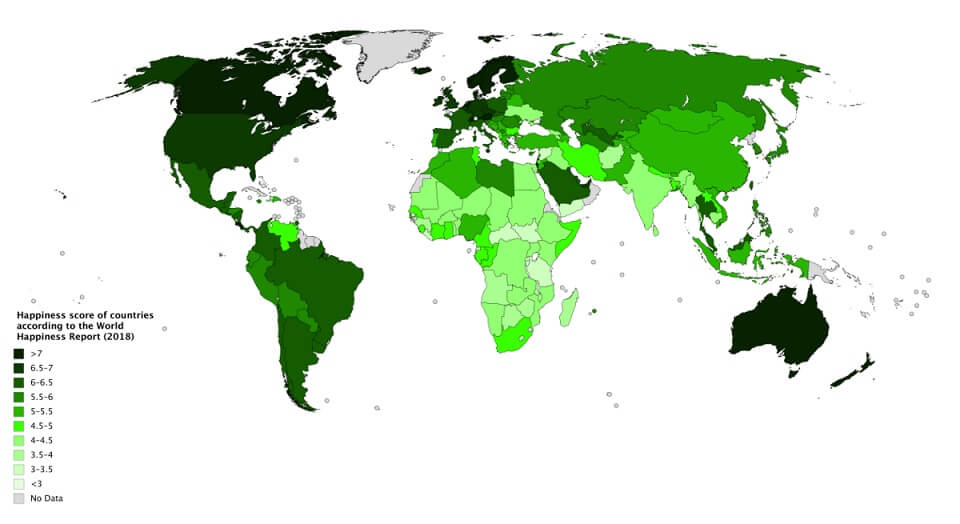
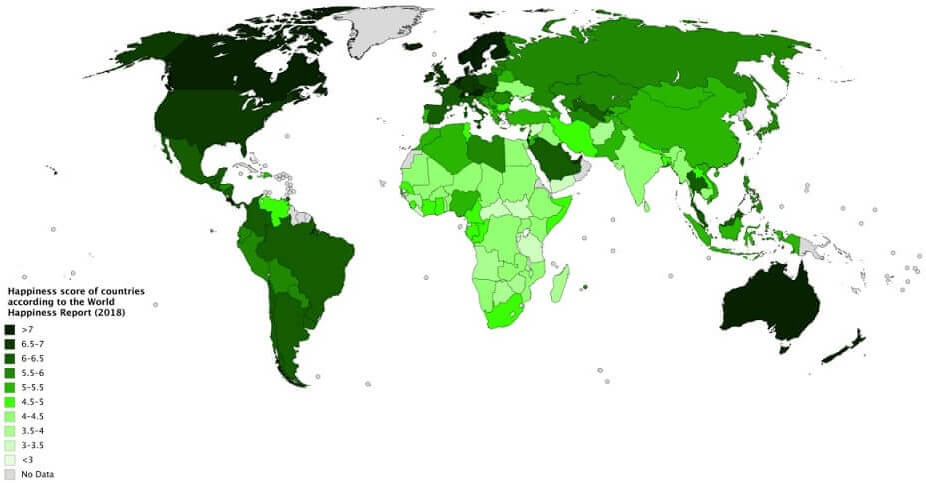
Changed image size and description. Twitter card validator not working.

diff --git a/_posts/2020-07-10-India-vs-Highly-Developed-Nations.md b/_posts/2020-07-10-India-vs-Highly-Developed-Nations.md
@@ -6,7 +6,7 @@ author: Siddharth
 image: assets/images/happiness_index_countries.jpg
 permalink: India-vs-Highly-Developed-Nations
 tags: [India, Scandanavia, NewZealand, Canada, Tolstoy]
-description: The clamor for an Indian Jacinda Ardern or an Indian Justin Tredeau is misplaced. India is no New Zealand or Canada.
+description: The clamor for an Indian Jacinda Ardern or an Indian Justin Trudeau is misplaced. India is no New Zealand or Canada.
 ---
 Leo Tolstoy's iconic novel Anna Karenina has a famous line: Happy families are all alike; every unhappy family is unhappy in its own way. Tolstoy wrote thus since happy families have many things completed on a common checklist such as love and compatibility between partners and siblings, financial stability, respect toward elders, willingness to put time and effort for each other's well being, etc. The absence of one or more of these attributes renders a family unhappy. 
 
